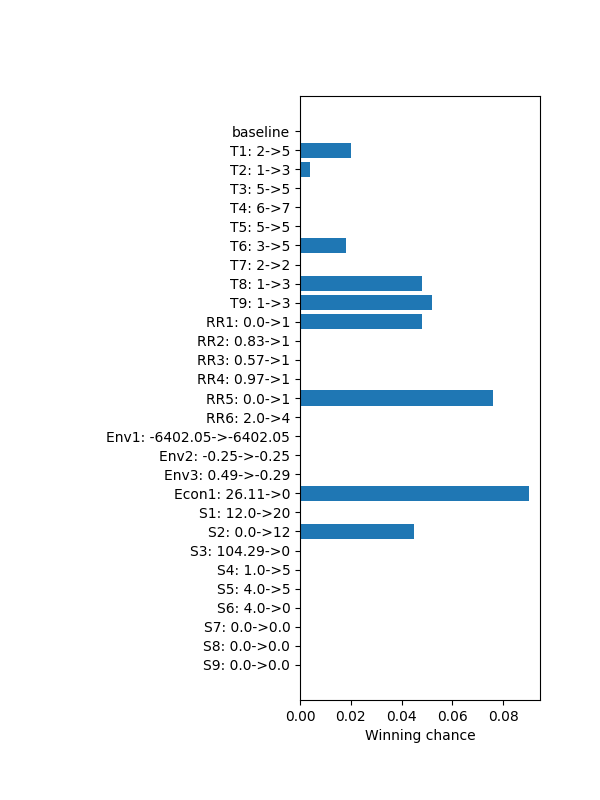
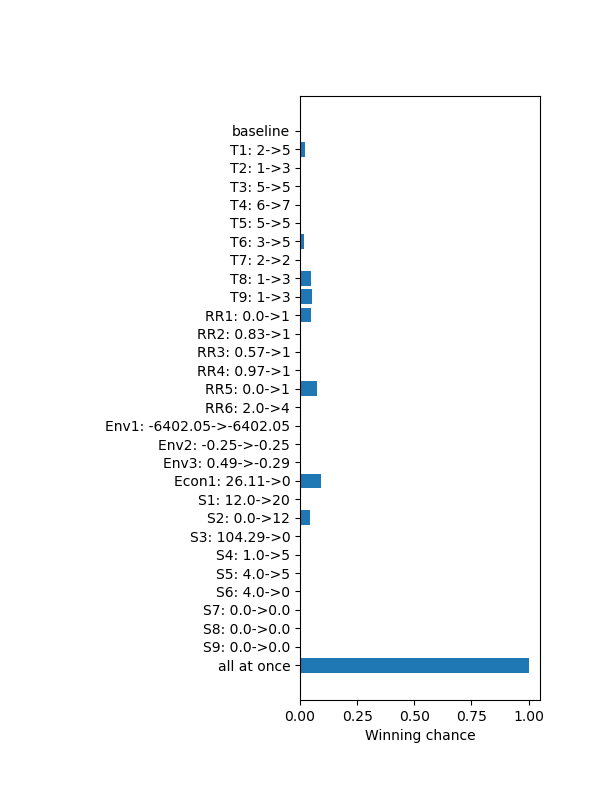
update results

Changed region(s): [[0.18, 0.1562, 0.9, 0.8438], [0.57, 0.875, 0.9, 0.9062], [0.48, 0.875, 0.54, 0.9062]]

diff --git a/dmsan/bwaise/scenario.py b/dmsan/bwaise/scenario.py
@@ -28,6 +28,7 @@ bwaise_mcda.criteria_weights = pd.read_excel(file_path)
 
 # Save a copy
 baseline_tech_scores =  bwaise_mcda.tech_scores.copy()
+baseline_local_weights = bwaise_ahp.norm_weights_df.copy()
 
 def update_local_weights(tech_scores):
     ahp = AHP(location_name='Uganda', num_alt=bwaise_ahp.num_alt,
@@ -51,7 +52,11 @@ def update_local_weights(tech_scores):
 # =============================================================================
 # Different scenairos
 # =============================================================================
-max_score_dct = {
+
+# Best scores, if None, will be chosen between the best
+# (min for non-beneficial indicators and max for beneficial ones)
+# among the three systems
+best_score_dct = {
     'T1': 5,
     'T2': 3,
     'T3': 5,
@@ -59,10 +64,10 @@ max_score_dct = {
     'T6': 5,
     'T7': 2,
     'T8': 3,
-    'T9': 3, 
+    'T9': 3,
     'RR1': 1,
     'RR2': 1,
-    'RR3': 1, 
+    'RR3': 1,
     'RR4': 1,
     'RR5': 1,
     'RR6': 4,
@@ -78,12 +83,14 @@ max_score_dct = {
     'S6': 0
     }
 
-def test_oat(mcda, alt, indicators=None, max_score={}):
+def test_oat(mcda, alt, indicators=None, best_score={}):
     '''
     One-at-a-time test on if changing the tech score of one indicator would
     affect the overall winner.
     No uncertainties from system simulation are considered.
-     '''
+
+    If `all_at_once` is True, will change all the indicators at one time
+    '''
 
     weight_num = mcda.criteria_weights.shape[0]
     idx = mcda.alt_names[mcda.alt_names==alt].index[0]
@@ -108,14 +115,14 @@ def test_oat(mcda, alt, indicators=None, max_score={}):
             print(f'{alt} already winning indicator {ind}.')
 
         if ind_type == 0: # non-beneficial
-            if max_score.get(ind) is not None:
-                updated = max_score[ind]
+            if best_score.get(ind) is not None:
+                updated = best_score[ind]
             else:
                 updated = series.min()
 
         else: # beneficial
-            if max_score.get(ind) is not None:
-                updated = max_score[ind]
+            if best_score.get(ind) is not None:
+                updated = best_score[ind]
             else:
                 updated = series.max()
 
@@ -124,7 +131,7 @@ def test_oat(mcda, alt, indicators=None, max_score={}):
 
         # Update local weights
         mcda.indicator_weights = update_local_weights(mcda.tech_scores)
-        
+
         # Run MCDA with multiple global weights
         mcda.run_MCDA()
         win_chance = mcda.winners[mcda.winners.Winner==alt].shape[0]/weight_num
@@ -136,8 +143,19 @@ def test_oat(mcda, alt, indicators=None, max_score={}):
         data['rank after updating'] = updated_rank
         data['winning chance'] = win_chance
 
+    # Get the winning chance for all best scores at the same time
+    for ind, data in test_dct.items():
+        updated = data['updated']
+        mcda.tech_scores.loc[idx, ind] = updated
+
+    mcda.indicator_weights = update_local_weights(mcda.tech_scores)
+    mcda.run_MCDA()
+    test_dct['all at once'] = {'winning chance':
+                               mcda.winners[mcda.winners.Winner==alt].shape[0]/weight_num}
+
     # Get the winning chance at baseline values
     mcda.tech_scores = baseline_tech_scores.copy()
+    mcda.indicator_weights = baseline_local_weights.copy()
     mcda.run_MCDA()
     test_dct['baseline'] = {'winning chance':
                             mcda.winners[mcda.winners.Winner==alt].shape[0]/weight_num}
@@ -150,9 +168,12 @@ def plot_oat(test_dct):
     get_rounded = lambda val: round(val, 2) if len(str(val).split('.')[-1]) >= 2 else val
 
     for ind, data in test_dct.items():
-        if not ind == 'baseline':
+        if not ind in ('baseline', 'all at once'):
             labels.append(f'{ind}: {get_rounded(data["baseline"])}->{get_rounded(data["updated"])}')
             winning.append(data['winning chance'])
+
+    labels.append('all at once')
+    winning.append(test_dct['all at once']['winning chance'])
 
     fig, ax = plt.subplots(figsize=(6, 8))
     y = np.arange(len(labels))
@@ -242,10 +263,6 @@ if __name__ == '__main__':
     # ax1 = plot_across_axis(Cwin_across_cost_uncertainty, include_simulation_uncertainties=True)
     # ax1.figure.savefig(os.path.join(figures_path, 'Cwin_across_cost_with_band.png'), dpi=100)
 
-    test_dct_best = test_oat(bwaise_mcda, alt='Alternative C', max_score=max_score_dct)
+    test_dct_best = test_oat(bwaise_mcda, alt='Alternative C', best_score=best_score_dct)
     ax = plot_oat(test_dct_best)
     ax.figure.savefig(os.path.join(figures_path, 'test_best.png'), dpi=100)
-
-    # test_dct_100 = test_oat(bwaise_mcda, alt='Alternative C', method=1)
-    # ax = plot_oat(test_dct_100)
-    # ax.figure.savefig(os.path.join(figures_path, 'test_100.png'), dpi=100)
